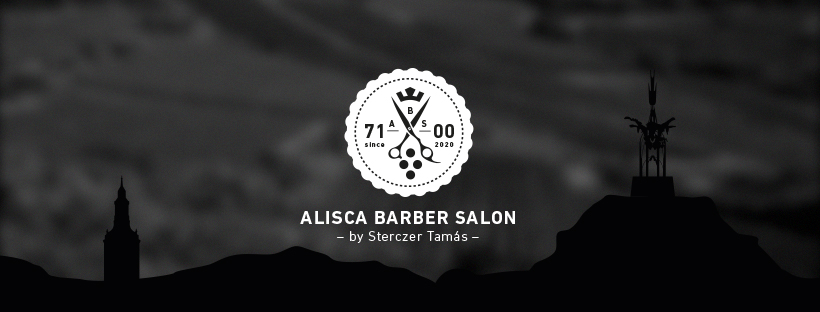
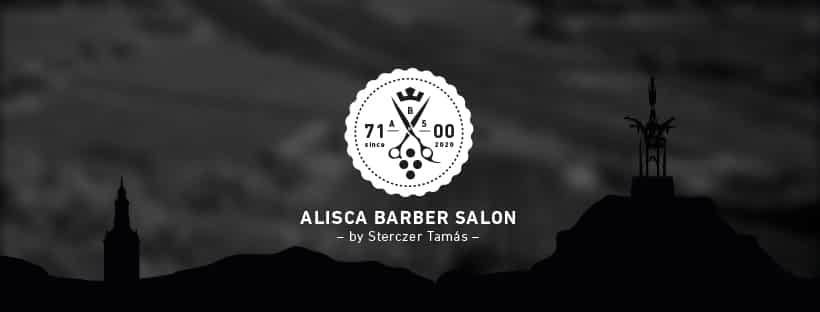
header fix

diff --git a/src/assets/sass/header.scss b/src/assets/sass/header.scss
@@ -1,15 +1,26 @@
 @import 'mixin.scss';
 header {
-    background: url('/images/header-cut.jpg') no-repeat; 
+    @media screen and (min-width:1367px) {
+    background: url('/images/bgLg.png') no-repeat; 
     background-size: 100vw 100%;
-    background-size: 100% 100%;
+    background-size: contain;
     background-position: 50% 50%;
-    height: 28vh;
+    //background-color: rgb(53, 53, 53);
+    //background-blend-mode: darken;
+    height: 253px;
+    }
+    
+    background: url('/images/laptopHead.jpg') no-repeat; 
+    background-size: 100vw 100%;
+    background-size: contain;
+    background-position: 50% 50%;
+    //background-color: rgb(53, 53, 53);
+    //background-blend-mode: darken;
+    height: 180px;
     display: flex;
     align-items: center;
-    padding-bottom: 25px;
-    //background-color: rgba(50, 50, 50,1);
-    //background-blend-mode: lighten;
+    padding-bottom: 25px; 
+    
     @include tablet820 {
         background: url('/images/header820.jpg') no-repeat; 
         background-size: 100vw 100%;

diff --git a/src/assets/css/header.css b/src/assets/css/header.css
@@ -1,9 +1,9 @@
 header {
-  background: url("/images/header-cut.jpg") no-repeat;
+  background: url("/images/laptopHead.jpg") no-repeat;
   background-size: 100vw 100%;
-  background-size: 100% 100%;
+  background-size: contain;
   background-position: 50% 50%;
-  height: 28vh;
+  height: 180px;
   display: -webkit-box;
   display: -ms-flexbox;
   display: flex;
@@ -11,6 +11,16 @@ header {
       -ms-flex-align: center;
           align-items: center;
   padding-bottom: 25px;
+}
+
+@media screen and (min-width: 1367px) {
+  header {
+    background: url("/images/bgLg.png") no-repeat;
+    background-size: 100vw 100%;
+    background-size: contain;
+    background-position: 50% 50%;
+    height: 253px;
+  }
 }
 
 @media screen and (max-width: 820px) {

diff --git a/src/assets/sass/content.scss b/src/assets/sass/content.scss
@@ -7,11 +7,14 @@
     background-color: rgba(230, 230, 230, 0.85);
     background-blend-mode: lighten;
     position: relative;
-    height: 65vh;
+    height: calc(100vh - (7vh + 180px)) ;
     padding-bottom: 15px;
     overflow: auto;
     padding-left: 5px;
     padding-right: 5px;
+    @media screen and (min-width:1367px) {
+        height: calc(100vh - (7vh + 253px)) ;
+        }
     h2 {
       padding-bottom: 15px;
       color: rgb(48, 48, 48);

diff --git a/src/assets/css/content.css b/src/assets/css/content.css
@@ -7,11 +7,17 @@
   background-color: rgba(230, 230, 230, 0.85);
   background-blend-mode: lighten;
   position: relative;
-  height: 65vh;
+  height: calc(100vh - (7vh + 180px));
   padding-bottom: 15px;
   overflow: auto;
   padding-left: 5px;
   padding-right: 5px;
+}
+
+@media screen and (min-width: 1367px) {
+  .content {
+    height: calc(100vh - (7vh + 253px));
+  }
 }
 
 .content h2 {
